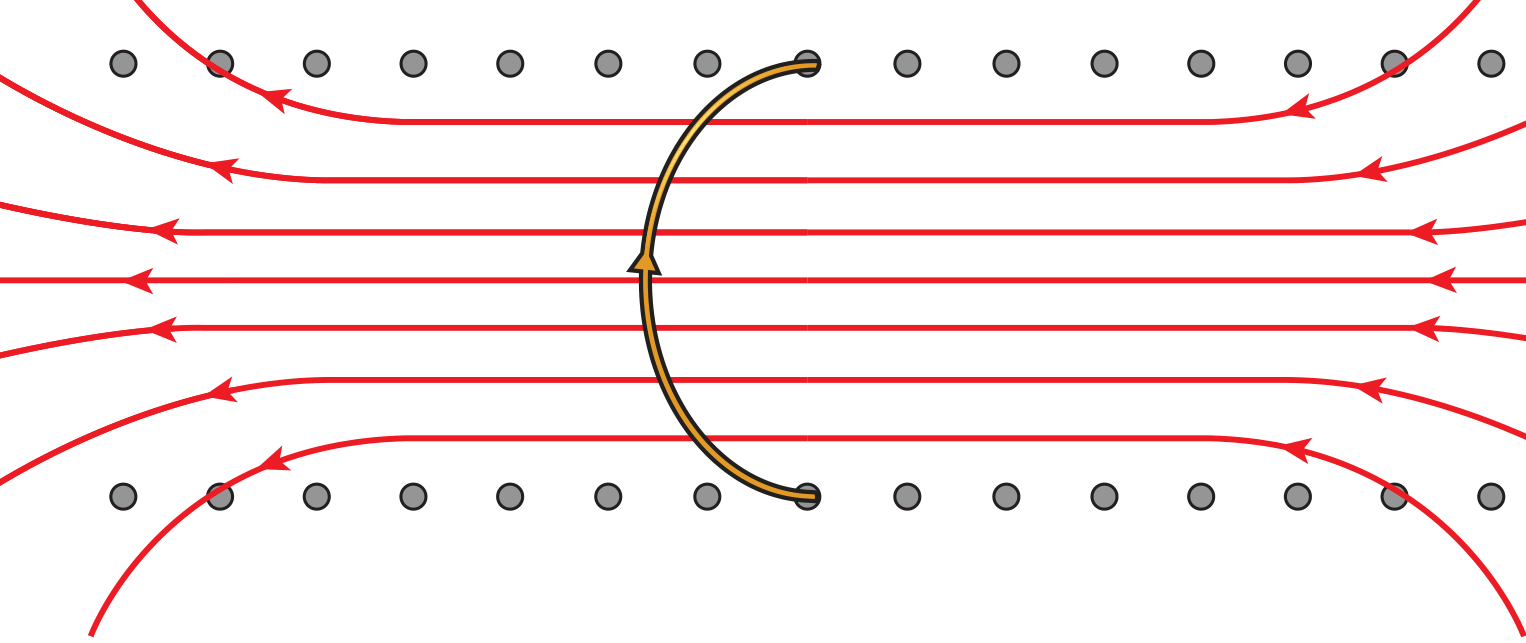
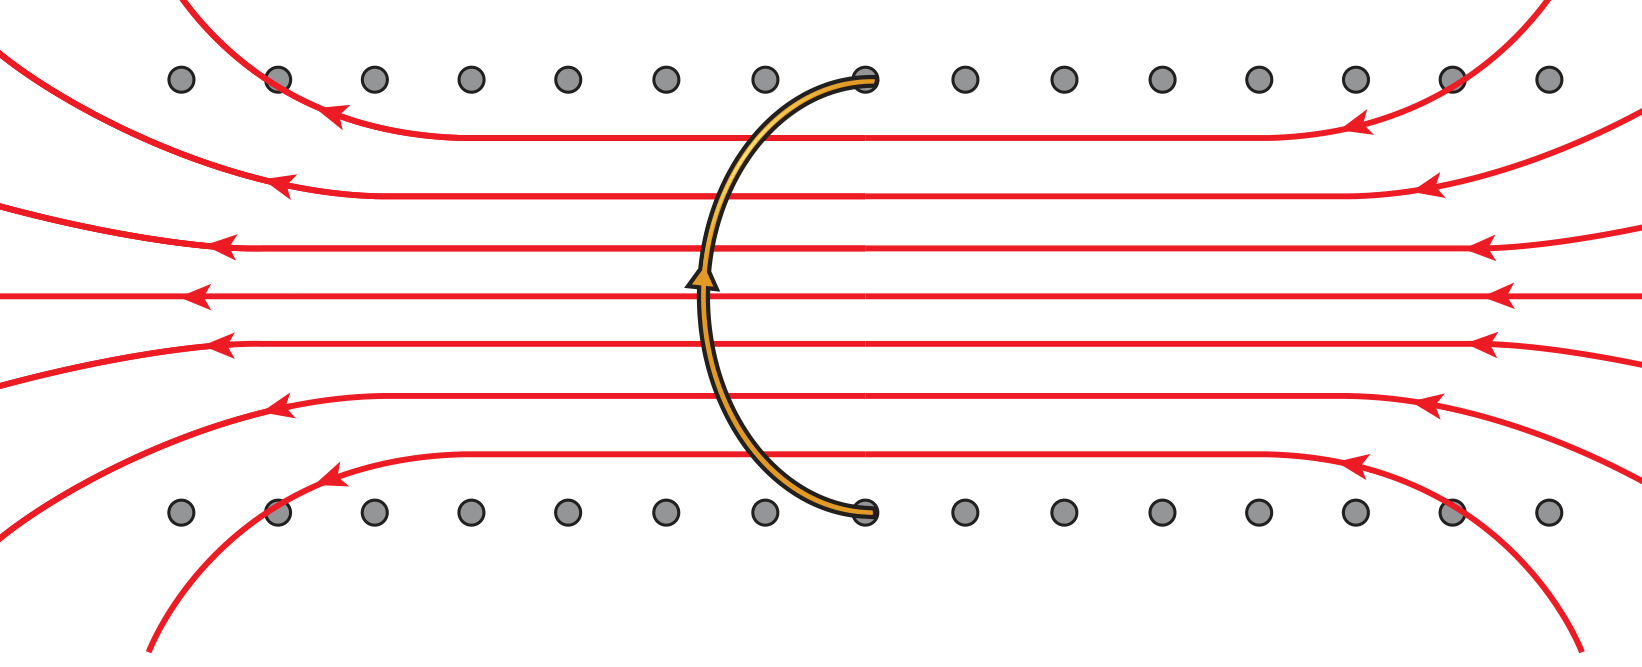
Update physics handout 20 assets; add check_code_lessons script.
Refresh handout 20 content/meta and textbook figure PDFs; add lesson
validation helper for python-basics course.

diff --git a/scripts/check_code_lessons.py b/scripts/check_code_lessons.py
@@ -1,0 +1,207 @@
+#!/usr/bin/env python3
+"""Validate authored Code-page lessons under ``content/code/``.
+
+For every course (a directory with ``course.yaml``) and every lesson it lists, check:
+
+  - **Schema** — ``meta.yaml`` has a bilingual ``title``; each task has ``id``, a
+    bilingual ``prompt``, and a valid ``check`` (``stdout`` needs ``expected``;
+    ``asserts`` needs ``code``).
+  - **Parallel languages** — ``NN.en.md`` and ``NN.zh.md`` exist and split into the
+    SAME number of ``---`` step chunks.
+  - **Python validity** — every ```` ```python ```` example block, every ``starter``,
+    every ``solution``, and every ``asserts`` ``code`` compiles.
+  - **Solvability (the key gate)** — each task's reference ``solution`` passes its own
+    ``check``, run in a subprocess (clean temp cwd, short timeout) that mirrors the
+    browser worker (``web/static/js/code-worker.js``): ``stdout`` compares stripped
+    (when ``normalize`` is ``strip``/unset); ``asserts`` execs the solution then the
+    check code in one namespace; ``stdin`` is fed then EOF.
+  - **No leakage** — ``solution`` never appears in ``load_lesson(...)['tasks_client_json']``.
+
+A missing ``solution`` is a warning (the solvability gate can't run for that task).
+Exit 0 if all good, 1 on any error.
+
+Run:  .venv/bin/python scripts/check_code_lessons.py
+"""
+from __future__ import annotations
+
+import json
+import re
+import subprocess
+import sys
+import tempfile
+from pathlib import Path
+
+REPO = Path(__file__).resolve().parents[1]
+sys.path.insert(0, str(REPO))
+
+from web import code_content  # noqa: E402
+
+PY = sys.executable
+SPLIT_RE = re.compile(r"(?m)^\s*-{3,}\s*$")
+PY_FENCE_RE = re.compile(r"```python\n(.*?)\n```", re.S)
+TIMEOUT = 10
+
+# Subprocess harness — mirrors the browser worker's check logic. argv[1] is a JSON
+# task spec {solution, stdin, check}. Exits non-zero (with a message on stderr) if
+# the reference solution does not pass its check.
+HARNESS = r'''
+import json, sys, io
+spec = json.load(open(sys.argv[1]))
+chk = spec.get("check") or {}
+sys.stdin = io.StringIO(spec.get("stdin") or "")
+buf = io.StringIO(); real = sys.stdout; sys.stdout = buf
+ns = {}
+try:
+    exec(compile(spec["solution"], "<solution>", "exec"), ns)
+    if chk.get("kind") == "asserts":
+        exec(compile(chk.get("code") or "", "<check>", "exec"), ns)
+finally:
+    sys.stdout = real
+out = buf.getvalue()
+if chk.get("kind") == "stdout":
+    norm = chk.get("normalize")
+    a = out.strip() if norm in (None, "strip") else out
+    b = str(chk.get("expected") if chk.get("expected") is not None else "")
+    b = b.strip() if norm in (None, "strip") else b
+    if a != b:
+        sys.stderr.write("stdout mismatch:\n  got: %r\n  exp: %r\n" % (a, b))
+        sys.exit(1)
+'''
+
+errors: list[str] = []
+warnings: list[str] = []
+
+
+def err(where: str, msg: str) -> None:
+    errors.append(f"[FAIL] {where}: {msg}")
+
+
+def warn(where: str, msg: str) -> None:
+    warnings.append(f"[warn] {where}: {msg}")
+
+
+def compile_ok(where: str, label: str, src: str) -> None:
+    try:
+        compile(src, label, "exec")
+    except SyntaxError as e:
+        err(where, f"{label} does not compile: {e}")
+
+
+def run_solution(where: str, task: dict) -> None:
+    spec = {
+        "solution": task["solution"],
+        "stdin": task.get("stdin") or "",
+        "check": task.get("check") or {},
+    }
+    with tempfile.TemporaryDirectory() as tmp:
+        specfile = Path(tmp) / "spec.json"
+        specfile.write_text(json.dumps(spec), encoding="utf-8")
+        try:
+            r = subprocess.run(
+                [PY, "-c", HARNESS, str(specfile)],
+                cwd=tmp, capture_output=True, text=True, timeout=TIMEOUT,
+            )
+        except subprocess.TimeoutExpired:
+            err(where, f"solution timed out (>{TIMEOUT}s) — infinite loop?")
+            return
+    if r.returncode != 0:
+        err(where, "reference solution does not pass its check:\n  " +
+            (r.stderr.strip().replace("\n", "\n  ") or "(no stderr)"))
+
+
+def check_lesson(slug: str, nn: str) -> None:
+    cdir = code_content.course_dir(slug)
+    where = f"{slug}/{nn}"
+    meta = code_content._read_yaml(cdir / f"{nn}.meta.yaml")
+    if not meta:
+        err(where, "missing or empty NN.meta.yaml")
+        return
+
+    title = meta.get("title")
+    if not (isinstance(title, dict) and title.get("en") and title.get("zh")):
+        err(where, "title must have both 'en' and 'zh'")
+
+    # Parallel step counts + compile python example blocks.
+    counts: dict[str, int] = {}
+    for lang in ("en", "zh"):
+        p = cdir / f"{nn}.{lang}.md"
+        if not p.is_file():
+            err(where, f"missing {nn}.{lang}.md")
+            continue
+        text = p.read_text(encoding="utf-8")
+        counts[lang] = len([c for c in SPLIT_RE.split(text) if c.strip()])
+        for i, block in enumerate(PY_FENCE_RE.findall(text)):
+            compile_ok(where, f"{lang}.md python block #{i + 1}", block)
+    if "en" in counts and "zh" in counts and counts["en"] != counts["zh"]:
+        err(where, f"en/zh step count differs: en={counts['en']} zh={counts['zh']}")
+
+    # Tasks.
+    for task in meta.get("tasks") or []:
+        tid = task.get("id")
+        tw = f"{where} task '{tid}'"
+        if not tid:
+            err(where, "a task is missing 'id'")
+            continue
+        prompt = task.get("prompt")
+        if not (isinstance(prompt, dict) and prompt.get("en") and prompt.get("zh")):
+            err(tw, "prompt must have both 'en' and 'zh'")
+        chk = task.get("check")
+        if not isinstance(chk, dict) or chk.get("kind") not in ("stdout", "asserts"):
+            err(tw, "check.kind must be 'stdout' or 'asserts'")
+            chk = {}
+        if chk.get("kind") == "stdout" and chk.get("expected") is None:
+            err(tw, "stdout check needs 'expected'")
+        if chk.get("kind") == "asserts":
+            if not chk.get("code"):
+                err(tw, "asserts check needs 'code'")
+            else:
+                compile_ok(tw, "check.code", chk["code"])
+        if task.get("starter"):
+            compile_ok(tw, "starter", task["starter"])
+        if task.get("solution"):
+            compile_ok(tw, "solution", task["solution"])
+            run_solution(tw, task)
+        else:
+            warn(tw, "no 'solution' — solvability gate skipped")
+
+    # The reference solution must never reach the browser.
+    data = code_content.load_lesson(slug, nn, "en")
+    if data:
+        for ct in json.loads(data["tasks_client_json"]):
+            if "solution" in ct:
+                err(where, f"task '{ct.get('id')}' leaks 'solution' into the client JSON")
+
+
+def main() -> int:
+    root = code_content.CODE_DIR
+    if not root.is_dir():
+        print(f"No content dir: {root}")
+        return 1
+    courses = sorted(p.parent.name for p in root.glob("*/course.yaml"))
+    if not courses:
+        print("No courses found.")
+        return 0
+
+    total = 0
+    for slug in courses:
+        manifest = code_content._read_yaml(code_content.course_dir(slug) / "course.yaml")
+        lessons = [str(n) for n in (manifest.get("lessons") or [])]
+        print(f"Course '{slug}': {len(lessons)} lesson(s) listed")
+        for nn in lessons:
+            total += 1
+            check_lesson(slug, nn)
+
+    print(f"\nChecked {total} lesson(s) across {len(courses)} course(s).")
+    for w in warnings:
+        print(" ", w)
+    if errors:
+        print(f"\n{len(errors)} error(s):")
+        for e in errors:
+            print(" ", e)
+        return 1
+    print("\nAll checks passed.")
+    return 0
+
+
+if __name__ == "__main__":
+    raise SystemExit(main())

diff --git a/output/eXam/handouts/a_level_physics/20.md b/output/eXam/handouts/a_level_physics/20.md
@@ -10,12 +10,21 @@ A **magnetic field** 磁场 is a region where a moving charge (or a **current** 
 - **field lines** 场线 point from **N** to **S** outside a magnet, and S to N inside (so they form closed loops).
 - lines never cross; closer lines mean a stronger field.
 
+![Iron filings sprinkled around a bar magnet line up along the magnetic field, showing the field pattern](/handout-media/a_level_physics/assets/20-p331-iron-filings-bar-magnet.png)
+*Iron filings reveal the field of a bar magnet*
+
 Patterns to know:
 
 - **bar magnet** 条形磁铁 — curved lines from N to S outside, strongest near the poles.
 - **long straight wire** — circles around the wire; the direction comes from the **right-hand grip rule** 右手定则 (thumb along the current, fingers curl the way the field points).
 - **flat circular coil** — the field through the centre is at right angles to the coil; the coil acts like a small bar magnet.
 - **long solenoid** 螺线管 — the field inside is nearly **uniform** along the axis, like a stretched bar magnet; outside it falls off fast.
+
+![Concentric circular magnetic field lines around a straight current-carrying wire, with the current going into the page](/handout-media/a_level_physics/assets/20-p343-field-around-straight-wire.png)
+*Field around a long straight wire*
+
+![Magnetic field lines of a solenoid: uniform and parallel inside, spreading out at the ends like a bar magnet](/handout-media/a_level_physics/assets/20-p343-solenoid-field.png)
+*Field of a solenoid*
 
 An **iron core** 铁芯 inside a solenoid greatly **increases** the field, because the iron's atomic magnets line up and add to it. This is why **electromagnets** 电磁铁 and **transformers** 变压器 have iron cores.
 
@@ -72,6 +81,9 @@ $$
 
 which does **not** depend on the speed — a faster particle goes in a bigger circle but takes the same time per turn. If $v$ also has a part along $B$, that part is unchanged, and the path is a **helix** 螺旋.
 
+![A positive charge entering a uniform magnetic field follows a curved circular path](/handout-media/a_level_physics/assets/20-p337-charged-particle-circular-path.png)
+*Circular path of a charged particle in a magnetic field*
+
 ### Hall effect
 
 A slab of conductor carrying current $I$, in a field $B$ at right angles to the current, develops a voltage across its faces — the **Hall voltage** 霍尔电压 $V_{\text{H}}$ (the **Hall effect** 霍尔效应).
@@ -84,6 +96,9 @@ $$
 
 where $q$ is the carrier charge. A **Hall probe** 霍尔探头 uses this to measure $B$: pass a known current through a thin **semiconductor** 半导体 slab and read $V_{\text{H}}$ (largest when the slab is at right angles to $B$).
 
+![A current-carrying slab in a magnetic field: charges build up on opposite faces, creating the Hall voltage across its thickness](/handout-media/a_level_physics/assets/20-p341-hall-effect.png)
+*The Hall effect*
+
 ### Velocity selector
 
 A **velocity selector** 速度选择器 uses crossed electric and magnetic fields to let through only one speed. With the electric force $qE$ and magnetic force $qvB$ set to oppose each other, the net force is zero only when
@@ -93,6 +108,9 @@ qE = qvB \quad\Rightarrow\quad v = \frac{E}{B}.
 $$
 
 Particles at speed $E/B$ go straight through; faster or slower ones are deflected.
+
+![Charged particles passing through crossed electric and magnetic fields; only those at one speed travel straight through the slit](/handout-media/a_level_physics/assets/20-p340-velocity-selector.png)
+*Velocity selector*
 
 ## Force between parallel currents
 
@@ -135,7 +153,14 @@ $$
 ### Demonstrations
 
 - moving a bar magnet into a coil deflects a **galvanometer** 检流计; the deflection reverses when the magnet is pulled out (Lenz's law), and is larger for faster motion (Faraday's law).
+
+![A wire connected to a sensitive galvanometer is moved between the poles of a magnet, inducing an e.m.f.](/handout-media/a_level_physics/assets/20-p347-electromagnetic-induction-apparatus.png)
+*Demonstrating electromagnetic induction*
+
 - a copper disc swinging into a field is quickly slowed — **eddy currents** 涡流 are induced that oppose the motion.
+
+![A metal disc swinging between magnet poles is rapidly slowed as eddy currents are induced in it](/handout-media/a_level_physics/assets/20-p351-eddy-current-damping.png)
+*Eddy-current damping*
 
 ### What makes the induced e.m.f. larger
 